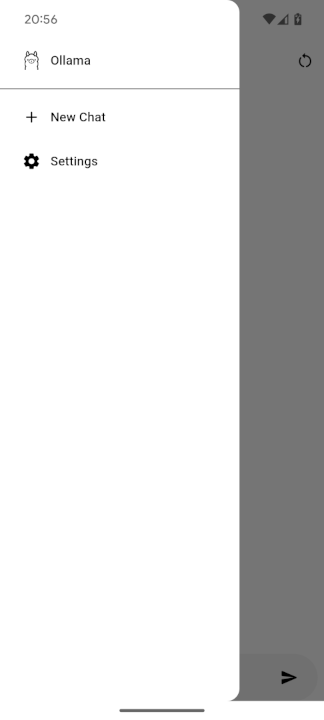
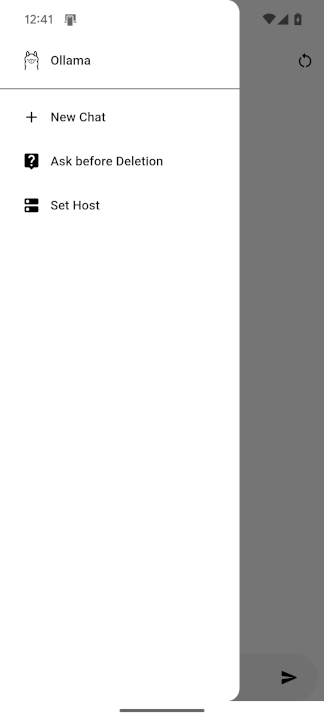
Added warning before new chat

diff --git a/lib/worker_setter.dart b/lib/worker_setter.dart
@@ -52,6 +52,14 @@ void setHost(BuildContext context, [bool force = true]) {
                                       hintText: "http://example.com:8080"))
                             ]),
                   actions: [
+                    !force
+                        ? TextButton(
+                            onPressed: () {
+                              Navigator.of(context).pop();
+                            },
+                            child: Text(
+                                AppLocalizations.of(context)!.hostDialogCancel))
+                        : const SizedBox.shrink(),
                     TextButton(
                         onPressed: () async {
                           setState(() {
@@ -108,15 +116,7 @@ void setHost(BuildContext context, [bool force = true]) {
                           }
                         },
                         child:
-                            Text(AppLocalizations.of(context)!.hostDialogSave)),
-                    !force
-                        ? TextButton(
-                            onPressed: () {
-                              Navigator.of(context).pop();
-                            },
-                            child: Text(
-                                AppLocalizations.of(context)!.hostDialogCancel))
-                        : const SizedBox.shrink()
+                            Text(AppLocalizations.of(context)!.hostDialogSave))
                   ]))));
 }
 
@@ -266,6 +266,85 @@ void setModel(BuildContext context, Function setState) {
                                     ).toList(),
                                   )))
                         ])));
+        });
+      });
+}
+
+void deleteChat(BuildContext context, Function setState) {
+  if (prefs!.getBool("askBeforeDeletion") ?? true && messages.isNotEmpty) {
+    showDialog(
+        context: context,
+        builder: (context) {
+          return StatefulBuilder(builder: (context, setLocalState) {
+            return AlertDialog(
+                title: Text(AppLocalizations.of(context)!.deleteDialogTitle),
+                content: Column(mainAxisSize: MainAxisSize.min, children: [
+                  Text(AppLocalizations.of(context)!.deleteDialogDescription),
+                  Row(
+                      crossAxisAlignment: CrossAxisAlignment.center,
+                      mainAxisAlignment: MainAxisAlignment.end,
+                      children: [
+                        Text(AppLocalizations.of(context)!
+                            .deleteDialogAskAlways),
+                        const Expanded(child: SizedBox()),
+                        Switch(
+                          value: prefs!.getBool("askBeforeDeletion") ?? true,
+                          onChanged: (value) {
+                            prefs!.setBool("askBeforeDeletion", value);
+                            setLocalState(() {});
+                          },
+                        )
+                      ])
+                ]),
+                actions: [
+                  TextButton(
+                      onPressed: () {
+                        HapticFeedback.selectionClick();
+                        Navigator.of(context).pop();
+                      },
+                      child: Text(
+                          AppLocalizations.of(context)!.deleteDialogCancel)),
+                  TextButton(
+                      onPressed: () {
+                        HapticFeedback.selectionClick();
+                        Navigator.of(context).pop();
+                        messages = [];
+                        setState(() {});
+                      },
+                      child: Text(
+                          AppLocalizations.of(context)!.deleteDialogDelete))
+                ]);
+          });
+        });
+  } else {
+    messages = [];
+    setState(() {});
+  }
+}
+
+void setAskBeforeDeletion(BuildContext context, Function setState) {
+  showDialog(
+      context: context,
+      builder: (context) {
+        return StatefulBuilder(builder: (context, setLocalState) {
+          return Dialog(
+              child: Padding(
+                  padding: const EdgeInsets.all(16),
+                  child: Row(
+                      crossAxisAlignment: CrossAxisAlignment.center,
+                      mainAxisAlignment: MainAxisAlignment.end,
+                      children: [
+                        Text(AppLocalizations.of(context)!
+                            .deleteDialogAskAlways),
+                        const Expanded(child: SizedBox()),
+                        Switch(
+                          value: prefs!.getBool("askBeforeDeletion") ?? true,
+                          onChanged: (value) {
+                            prefs!.setBool("askBeforeDeletion", value);
+                            setLocalState(() {});
+                          },
+                        )
+                      ])));
         });
       });
 }

diff --git a/lib/main.dart b/lib/main.dart
@@ -209,7 +209,7 @@ class _MainAppState extends State<MainApp> {
                   onPressed: () {
                     HapticFeedback.selectionClick();
                     if (!chatAllowed) return;
-                    messages = [];
+                    deleteChat(context, setState);
                     setState(() {});
                   },
                   icon: const Icon(Icons.restart_alt_rounded))
@@ -497,9 +497,12 @@ class _MainAppState extends State<MainApp> {
                 HapticFeedback.selectionClick();
                 Navigator.of(context).pop();
                 if (!chatAllowed) return;
-                messages = [];
-                setState(() {});
+                deleteChat(context, setState);
               } else if (value == 2) {
+                HapticFeedback.selectionClick();
+                Navigator.of(context).pop();
+                setAskBeforeDeletion(context, setState);
+              } else if (value == 3) {
                 HapticFeedback.selectionClick();
                 Navigator.of(context).pop();
                 if (!chatAllowed) return;
@@ -517,11 +520,15 @@ class _MainAppState extends State<MainApp> {
               NavigationDrawerDestination(
                   icon: const Icon(Icons.add_rounded),
                   label: Text(AppLocalizations.of(context)!.optionNewChat)),
+              NavigationDrawerDestination(
+                  icon: const Icon(Icons.live_help_rounded),
+                  label:
+                      Text(AppLocalizations.of(context)!.optionSetAskDeletion)),
               (useHost)
                   ? const SizedBox.shrink()
                   : NavigationDrawerDestination(
-                      icon: const Icon(Icons.settings_rounded),
-                      label: Text(AppLocalizations.of(context)!.optionSettings))
+                      icon: const Icon(Icons.dns_rounded),
+                      label: Text(AppLocalizations.of(context)!.optionSetHost)),
             ]));
   }
 }

diff --git a/README.md b/README.md
@@ -36,7 +36,7 @@ That's it, you can now just chat. Enter a message into the box at the bottom and
 
 ## Side Menu
 
-The button on the top left opens the menu. In it, you have two options for now: `New Chat` and `Settings`. The first option clears the chat (-> creates a new one), and the second one reopens the host dialog from the initial start of the app to adapt to changing hosts.
+The button on the top left opens the menu. In it, you have three options: `New Chat`, `Ask before Deletion` and `Set Host`. The first option clears the chat (-> creates a new one), the second one opens a new dialog that has a toggle you can toggle if you don't want to be asked or want to be asked again before deleting a chat, and the third option reopens the host dialog from the initial start of the app to adapt to changing hosts.
 
 ![side menu](assets/screenshots/other/s02.png)
 
